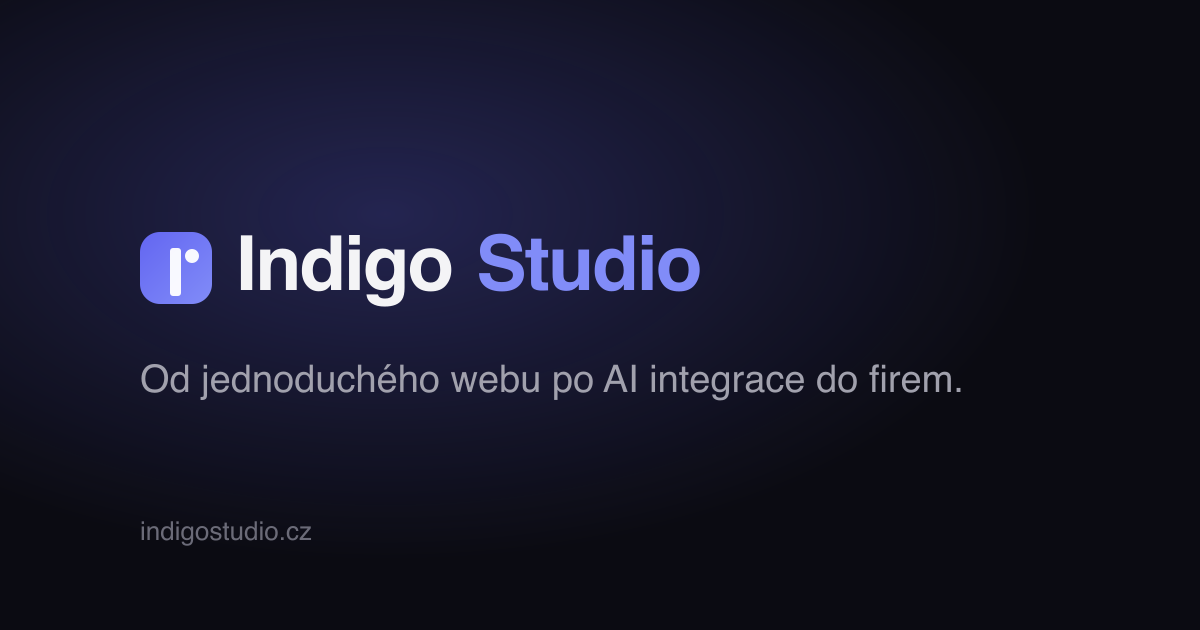
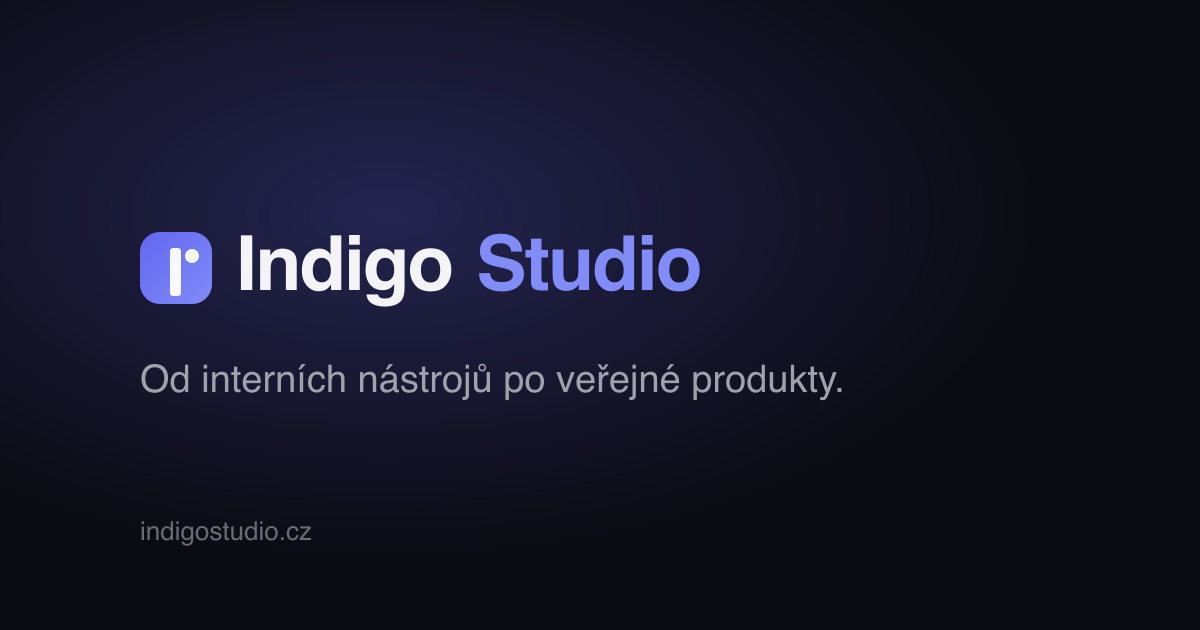
Aseko: App Store i Google Play

Changed region(s): [[0.1542, 0.573, 0.8017, 0.6333]]

diff --git a/public/projekty/aseko.html b/public/projekty/aseko.html
@@ -5,7 +5,7 @@
 <meta name="viewport" content="width=device-width, initial-scale=1, viewport-fit=cover">
 <meta name="format-detection" content="telephone=no">
 <title>Aseko — převzetí vývoje softwaru pro bazénovou techniku | Indigo Studio</title>
-<meta name="description" content="Případová studie: pro Aseko jsme v týmu s Telionem převzali vývoj veškerého softwaru. Dodali jsme frontend aplikací Aseko Live, Aseko Remote, whitelabel verzí a backoffice včetně vydávání do App Store a Google Play a automatických testů.">
+<meta name="description" content="Případová studie: pro Aseko jsme v týmu s Telionem převzali vývoj veškerého softwaru. Dodali jsme frontend aplikací Aseko Live, Aseko Remote, whitelabel verzí a backoffice včetně vydávání do App Store i Google Play a automatických testů.">
 <meta name="theme-color" content="#0d0e13" media="(prefers-color-scheme: dark)">
 <meta name="theme-color" content="#f6f6f8" media="(prefers-color-scheme: light)">
 <link rel="canonical" href="https://indigostudio.cz/projekty/aseko">
@@ -209,7 +209,7 @@
     <header class="hero">
       <p class="eyebrow">Případová studie · Mobilní a&nbsp;webové aplikace · IoT</p>
       <h1>Aseko: převzetí vývoje veškerého softwaru</h1>
-      <p class="lead">Aseko vyrábí řídicí jednotky pro bazény — dávkovací stanice, měření kvality a&nbsp;teploty vody, řízení filtrace i&nbsp;pohony krytů — pod vlastní značkou i&nbsp;pro partnery. Na&nbsp;hardware se soustředí samo, vývoj softwaru převzal tým dvou dodavatelů. Jako druhý dodavatel vedle Telionu jsme dodali frontend všech aplikací, jejich vydávání do&nbsp;App Store a&nbsp;Google Play a&nbsp;automatické testy.</p>
+      <p class="lead">Aseko vyrábí řídicí jednotky pro bazény — dávkovací stanice, měření kvality a&nbsp;teploty vody, řízení filtrace i&nbsp;pohony krytů — pod vlastní značkou i&nbsp;pro partnery. Na&nbsp;hardware se soustředí samo, vývoj softwaru převzal tým dvou dodavatelů. Jako druhý dodavatel vedle Telionu jsme dodali frontend všech aplikací, jejich vydávání do&nbsp;App Store i&nbsp;Google Play a&nbsp;automatické testy.</p>
     </header>
 
     <dl class="facts">
@@ -231,7 +231,7 @@
         <p>Spolupráce začala v&nbsp;roce 2022 drobnou offline aplikací Pool Cover Controller, se&nbsp;kterou technik přes Bluetooth nastaví pohon rolovacího krytu bazénu. Aplikace běží dodnes, i&nbsp;ve&nbsp;verzi pod značkou partnera.</p>
         <p>Pak se Aseko rozhodlo nahradit starou infrastrukturu a&nbsp;aplikace po&nbsp;předchozím dodavateli novou cloudovou platformou ACS a&nbsp;vývoj softwaru předat externímu týmu. <strong>Aseko si nechalo hardware, software převzal tým Telionu a&nbsp;náš.</strong></p>
         <ul class="list">
-          <li><strong>Indigo Studio</strong> — frontend aplikací, vydávání do&nbsp;App Store a&nbsp;Google Play včetně automatizace, end-to-end a&nbsp;regresní testy.</li>
+          <li><strong>Indigo Studio</strong> — frontend aplikací, vydávání do&nbsp;App Store i&nbsp;Google Play včetně automatizace, end-to-end a&nbsp;regresní testy.</li>
           <li><strong><a href="https://telion.cz/en" target="_blank" rel="noopener">Telion</a></strong> — zbytek platformy ACS: backend, infrastruktura a&nbsp;API. Jejich designer a&nbsp;kodér s&nbsp;námi stavěl sdílenou knihovnu UI komponent pro hybridní i&nbsp;webové aplikace.</li>
         </ul>
       </div>
@@ -259,13 +259,13 @@
           <h3>Jedna aplikace na&nbsp;webu, iOS i&nbsp;Androidu</h3>
           <dl>
             <dt>Problém</dt><dd>Převzaté aplikace měly pro každou platformu vlastní cestu. Každá změna se dělala vícekrát a&nbsp;vydání bylo pracné.</dd>
-            <dt>Řešení</dt><dd>Hybridní aplikace na&nbsp;Capacitoru a&nbsp;Vue nad sdílenou knihovnou komponent. Aseko Live z&nbsp;jednoho kódu vydáváme jako web i&nbsp;do&nbsp;App Store a&nbsp;Google Play.</dd>
+            <dt>Řešení</dt><dd>Hybridní aplikace na&nbsp;Capacitoru a&nbsp;Vue nad sdílenou knihovnou komponent. Aseko Live z&nbsp;jednoho kódu vydáváme jako web i&nbsp;do&nbsp;App Store i&nbsp;Google Play.</dd>
           </dl>
         </article>
         <article class="challenge">
           <h3>Stejná aplikace pod cizí značkou a&nbsp;cizími účty</h3>
           <dl>
-            <dt>Problém</dt><dd>Zákazník Aseko chtěl vzdálené ovládání pod vlastní značkou a&nbsp;ve&nbsp;vlastních účtech v&nbsp;App Store a&nbsp;Google Play.</dd>
+            <dt>Problém</dt><dd>Zákazník Aseko chtěl vzdálené ovládání pod vlastní značkou a&nbsp;ve&nbsp;vlastních účtech v&nbsp;App Store i&nbsp;Google Play.</dd>
             <dt>Řešení</dt><dd>Barvy, ikony, názvy i&nbsp;podpisové klíče jsou konfigurace, ne samostatný kód. Opravy a&nbsp;nové funkce se dostanou do&nbsp;verze Aseko i&nbsp;do&nbsp;verze zákazníka zároveň.</dd>
           </dl>
         </article>

diff --git a/public/index.html b/public/index.html
@@ -5,8 +5,8 @@
 <meta name="viewport" content="width=device-width, initial-scale=1, viewport-fit=cover">
 <!-- ať iOS nedělá tel: odkazy z IČO a čísla účtu -->
 <meta name="format-detection" content="telephone=no">
-<title>Indigo Studio — weby, aplikace a AI na míru</title>
-<meta name="description" content="Indigo Studio s.r.o. — weby, mobilní aplikace, agentic AI workflows, AI školení a interní aplikace na míru (CRM, CSM).">
+<title>Indigo Studio — software na míru, od interních nástrojů po veřejné produkty</title>
+<meta name="description" content="Indigo Studio s.r.o. — software na míru. Interní aplikace pro web, Apple i Android, integrace se Slackem a Shoptetem, rozšíření pro Chrome a Safari, veřejné služby a produkty.">
 <!-- theme-color = barva pozadí, ať status bar splývá se stránkou -->
 <meta name="theme-color" content="#0d0e13" media="(prefers-color-scheme: dark)">
 <meta name="theme-color" content="#f6f6f8" media="(prefers-color-scheme: light)">
@@ -15,17 +15,17 @@
 <!-- Open Graph / share preview -->
 <meta property="og:type" content="website">
 <meta property="og:site_name" content="Indigo Studio">
-<meta property="og:title" content="Indigo Studio — weby, aplikace a AI na míru">
-<meta property="og:description" content="Weby, mobilní aplikace, AI workflows, školení a interní systémy na míru.">
+<meta property="og:title" content="Indigo Studio — software na míru, od interních nástrojů po veřejné produkty">
+<meta property="og:description" content="Interní aplikace pro web, Apple i Android, integrace se Slackem a Shoptetem, rozšíření pro Chrome a Safari, veřejné služby a produkty.">
 <meta property="og:url" content="https://indigostudio.cz/">
 <meta property="og:locale" content="cs_CZ">
 <meta property="og:image" content="https://indigostudio.cz/og.png">
 <meta property="og:image:width" content="1200">
 <meta property="og:image:height" content="630">
-<meta property="og:image:alt" content="Indigo Studio — webové studio a AI integrace">
+<meta property="og:image:alt" content="Indigo Studio — software na míru">
 <meta name="twitter:card" content="summary_large_image">
-<meta name="twitter:title" content="Indigo Studio — weby, aplikace a AI na míru">
-<meta name="twitter:description" content="Weby, mobilní aplikace, AI workflows, školení a interní systémy na míru.">
+<meta name="twitter:title" content="Indigo Studio — software na míru, od interních nástrojů po veřejné produkty">
+<meta name="twitter:description" content="Interní aplikace pro web, Apple i Android, integrace se Slackem a Shoptetem, rozšíření pro Chrome a Safari, veřejné služby a produkty.">
 <meta name="twitter:image" content="https://indigostudio.cz/og.png">
 
 <link rel="icon" href="/favicon.svg" type="image/svg+xml">
@@ -42,7 +42,7 @@
   "logo": "https://indigostudio.cz/apple-touch-icon.png",
   "image": "https://indigostudio.cz/og.png",
   "email": "info@indigostudio.cz",
-  "description": "Webové studio. Od jednoduchého webu po AI integrace do firem.",
+  "description": "Softwarové studio. Od interních nástrojů po veřejné produkty.",
   "taxID": "14389096",
   "duns": "986792603",
   "address": {
@@ -402,7 +402,7 @@
     <div>
       <p class="eyebrow">Softwarové studio · Praha</p>
       <h1>Software na&nbsp;míru, od&nbsp;interních nástrojů po&nbsp;veřejné produkty.</h1>
-      <p class="lead">Interní aplikace pro&nbsp;web, Apple i&nbsp;Android. Integrace se&nbsp;Slackem, Shoptetem a&nbsp;dalšími nástroji. Rozšíření pro&nbsp;Chrome a&nbsp;Safari. Veřejné služby a&nbsp;produkty. Webové stránky jsou pro&nbsp;nás maličkost.</p>
+      <p class="lead">Interní aplikace pro&nbsp;web, Apple i&nbsp;Android. Integrace se&nbsp;Slackem, Shoptetem a&nbsp;nespočtem dalších nástrojů. Rozšíření pro&nbsp;Chrome a&nbsp;Safari. Veřejné služby a&nbsp;produkty. Webové stránky jsou pro&nbsp;nás maličkost.</p>
 
       <section class="panel cap-block" aria-label="Co pro vás můžeme udělat">
         <h2>Co pro vás můžeme udělat?</h2>
